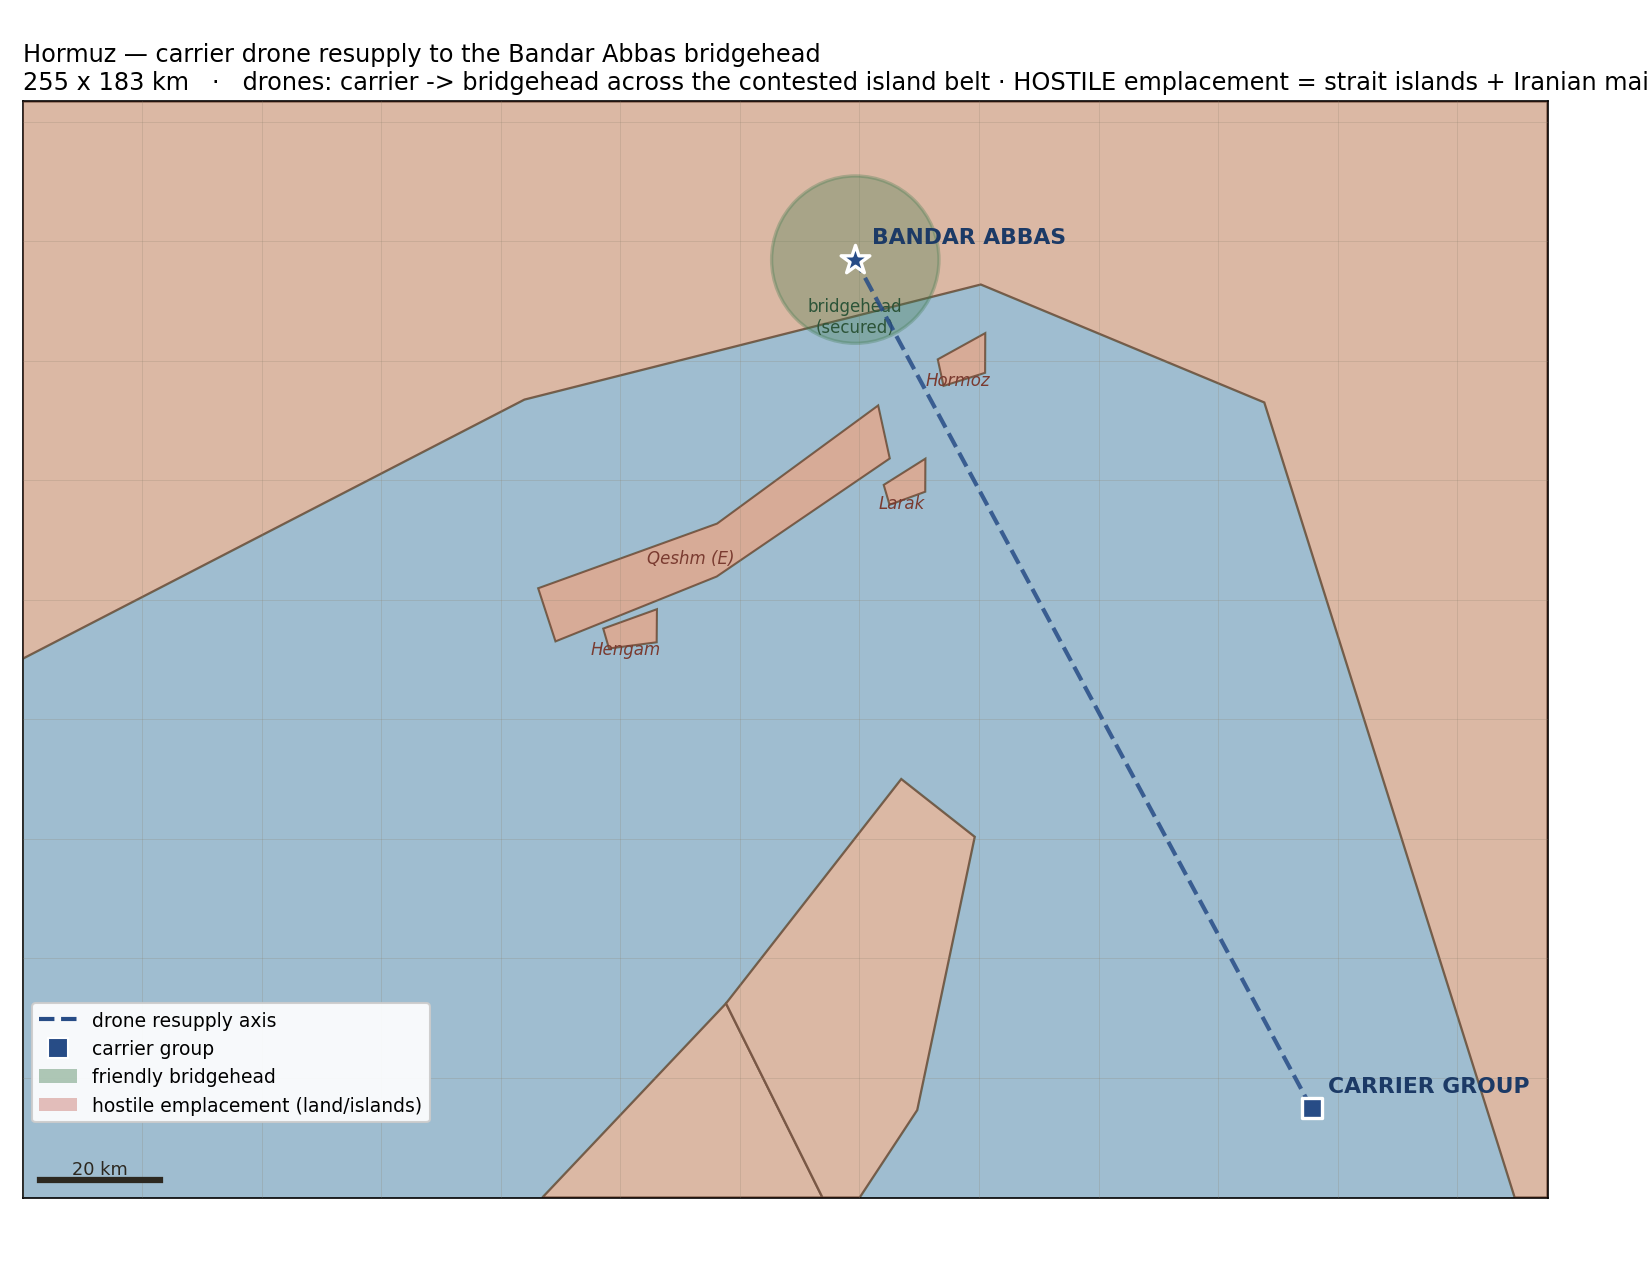
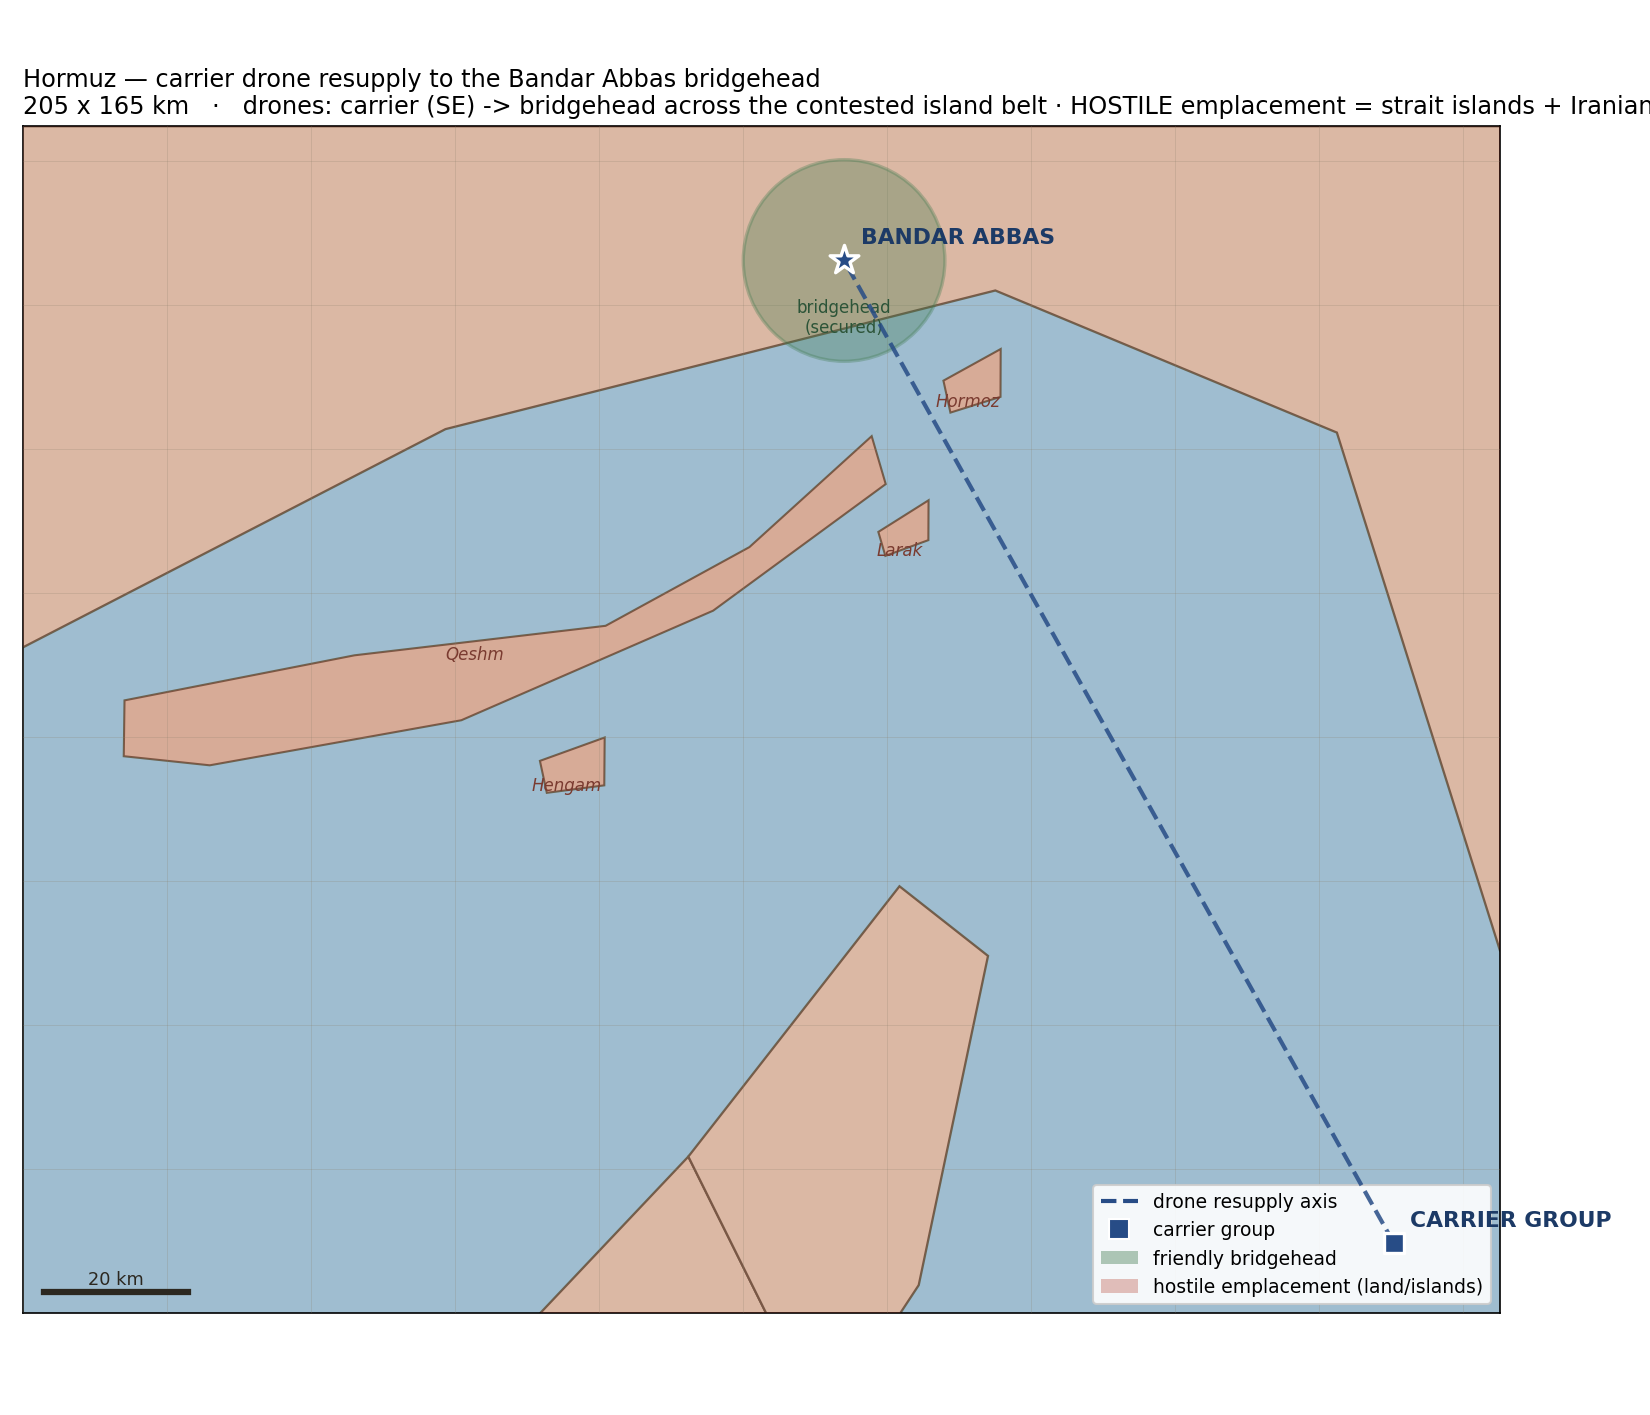
Hormuz resized to Kilian's tighter screenshot (205x165km: full Qeshm, Bandar Abbas + bridgehead, Musandam, SE-corner carrier) + urban layer RESTORED (the tighter box tops out at Musandam, N of Dubai/Sharjah, so urban is now light) + urban drawn in the maritime render. Review PNG re-rendered to confi

diff --git a/scratch/render_review_schematic.py b/scratch/render_review_schematic.py
@@ -22,24 +22,24 @@ DNIPRO = [(35.02, 48.55), (35.05, 48.47), (35.12, 48.40), (35.08, 48.31), (34.98
           (35.02, 48.12), (35.09, 48.02), (35.12, 47.92), (35.09, 47.84), (35.14, 47.76)]
 
 SPECS = {
-    "hormuz": dict(bbox=(54.90, 25.75, 57.45, 27.42), epsg="EPSG:32640", maritime=True,
+    "hormuz": dict(bbox=(55.15, 25.85, 57.20, 27.35), epsg="EPSG:32640", maritime=True,
                    scenario="carrier", land=["Iran", "Oman", "United Arab Emirates"],
-                   base=("CARRIER GROUP", 57.05, 25.90), target=("BANDAR ABBAS", 56.28, 27.18),
+                   base=("CARRIER GROUP", 57.05, 25.95), target=("BANDAR ABBAS", 56.28, 27.18),
                    bridgehead=(56.28, 27.18, 14.0),   # lon, lat, secured-radius km
                    title="Hormuz — carrier drone resupply to the Bandar Abbas bridgehead",
-                   note="drones: carrier -> bridgehead across the contested island belt · "
+                   note="drones: carrier (SE) -> bridgehead across the contested island belt · "
                         "HOSTILE emplacement = strait islands + Iranian mainland OUTSIDE the "
                         "bridgehead · sea + bridgehead = friendly · islands sketched (approx.)",
                    islands=[
-                       ("Qeshm (E)", [(55.75, 26.68), (56.05, 26.78), (56.32, 26.96),
-                                      (56.34, 26.88), (56.05, 26.70), (55.78, 26.60),
-                                      (55.75, 26.68)]),
+                       ("Qeshm", [(55.28, 26.62), (55.6, 26.68), (55.95, 26.72), (56.15, 26.82),
+                                  (56.32, 26.96), (56.34, 26.90), (56.10, 26.74), (55.75, 26.60),
+                                  (55.4, 26.54), (55.28, 26.55), (55.28, 26.62)]),
                        ("Hormoz", [(56.42, 27.03), (56.50, 27.07), (56.50, 27.01), (56.43, 26.99),
                                    (56.42, 27.03)]),
                        ("Larak", [(56.33, 26.84), (56.40, 26.88), (56.40, 26.83), (56.34, 26.81),
                                   (56.33, 26.84)]),
-                       ("Hengam", [(55.86, 26.62), (55.95, 26.65), (55.95, 26.60), (55.87, 26.59),
-                                   (55.86, 26.62)])]),
+                       ("Hengam", [(55.86, 26.55), (55.95, 26.58), (55.95, 26.52), (55.87, 26.51),
+                                   (55.86, 26.55)])]),
     "ukraine": dict(bbox=(34.80, 47.75, 35.45, 48.55), epsg="EPSG:32636", maritime=False,
                     land=["Ukraine"], river=DNIPRO,
                     base=("DNIPRO (supply)", 35.045, 48.465),
@@ -126,7 +126,7 @@ def render(name):
                    markeredgecolor="white", markersize=10, label="carrier group"),
             Patch(facecolor=COL["secured"], alpha=.4, label="friendly bridgehead"),
             Patch(facecolor=COL["hostile"], alpha=.3, label="hostile emplacement (land/islands)")],
-            loc="lower left", bbox_to_anchor=(0.0, 0.06), fontsize=9, framealpha=.92)
+            loc="lower right", fontsize=9, framealpha=.9)
     ax.set_xlim(0, Wkm); ax.set_ylim(0, Hkm); ax.set_aspect("equal")
     ax.set_title(f"{spec['title']}\n{Wkm:.0f} x {Hkm:.0f} km   ·   {spec['note']}",
                  fontsize=11.5, loc="left")

diff --git a/scratch/fetch_new_theatres.py b/scratch/fetch_new_theatres.py
@@ -26,8 +26,8 @@ import numpy as np
 
 CORRIDORS = {
     "hormuz": dict(
-        bbox=(54.90, 25.75, 57.45, 27.42), epsg="EPSG:32640", maritime=True,
-        base=("CARRIER GROUP", 57.05, 25.90), target=("BANDAR ABBAS", 56.28, 27.18),
+        bbox=(55.15, 25.85, 57.20, 27.35), epsg="EPSG:32640", maritime=True,
+        base=("CARRIER GROUP", 57.05, 25.95), target=("BANDAR ABBAS", 56.28, 27.18),
         bridgehead=(56.28, 27.18, 14.0),
         title="Hormuz — carrier drone resupply to the Bandar Abbas bridgehead"),
     "ukraine": dict(
@@ -35,10 +35,10 @@ CORRIDORS = {
         base=("DNIPRO", 35.045, 48.465), target=("ZAPORIZHZHIA", 35.145, 47.840),
         title="Dnipro -> Zaporizhzhia resupply corridor"),
 }
-TAGS_SEA = {                              # land (coast+islands) = emplaceable + LOS block;
-    "coast": {"natural": ["coastline"]},  # sea = traversable. urban kept but LIGHT (residential/
-    "island": {"place": ["island", "islet"]},  # industrial/port only); the box now ends at RAK,
-    "urban": {"landuse": ["residential", "industrial", "port"]},  # cropping Dubai/Sharjah.
+TAGS_SEA = {                              # land (coast + islands) = emplaceable + LOS block,
+    "coast": {"natural": ["coastline"]},  # sea = traversable. urban kept (the tighter box tops
+    "island": {"place": ["island", "islet"]},  # out at Musandam, N of Dubai/Sharjah, so the
+    "urban": {"landuse": ["residential", "industrial", "port", "military"]},  # layer is light.
 }
 TAGS_LAND = {
     "water": {"natural": ["water"], "waterway": ["riverbank"],
@@ -147,9 +147,9 @@ def run(name):
     if spec["maritime"]:
         fill(poly_layers["island"], COL["island"], 2, ec=COL["coast"], lw=0.6)
         fill(poly_layers["island"], COL["hostile"], 3, alpha=0.28)
+        fill(poly_layers.get("urban", []), COL["urban"], 4, ec="#9c917d", lw=0.3)
         for r in line_layers["coast"]:
             ax.plot([p[0] for p in r], [p[1] for p in r], color=COL["coast"], lw=1.3, zorder=3)
-        fill(poly_layers.get("urban", []), COL["urban"], 4, ec="#9c917d", lw=0.3)
         if "bridgehead" in out:
             bx, by = out["bridgehead"]["xy_km"]
             ax.add_patch(Circle((bx, by), out["bridgehead"]["radius_km"], facecolor=COL["secured"],
